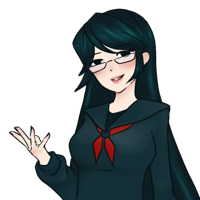
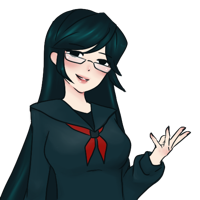
Added Flipped narrarotor  images to all the projects

diff --git a/Game/Game/Views/Battle/PickCharactersPage.xaml b/Game/Game/Views/Battle/PickCharactersPage.xaml
@@ -12,7 +12,7 @@
         <FlexLayout Direction="Column"
                 AlignItems="Center"
                 JustifyContent="SpaceEvenly">
-            <StackLayout Style="{StaticResource OuterBoxStack}">
+            <StackLayout Style="{StaticResource OuterBoxStacks}">
                 <Label Text="Click to remove me! or Drag and Hold to scroll." Style="{StaticResource CenterMessageStyle}"/>
 
                 <Grid Style="{StaticResource CarouselViewGrid}">
